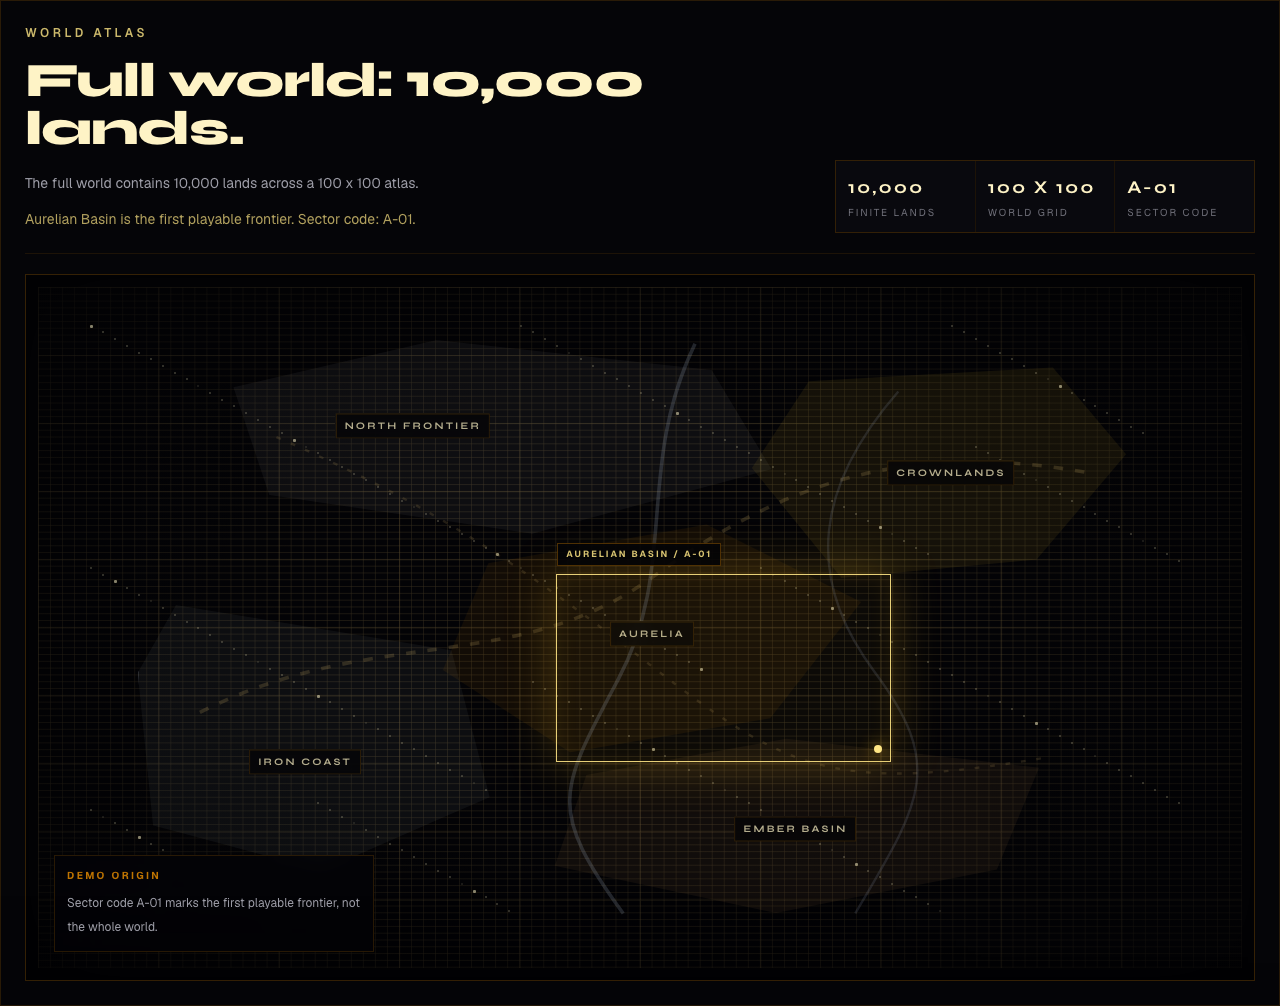
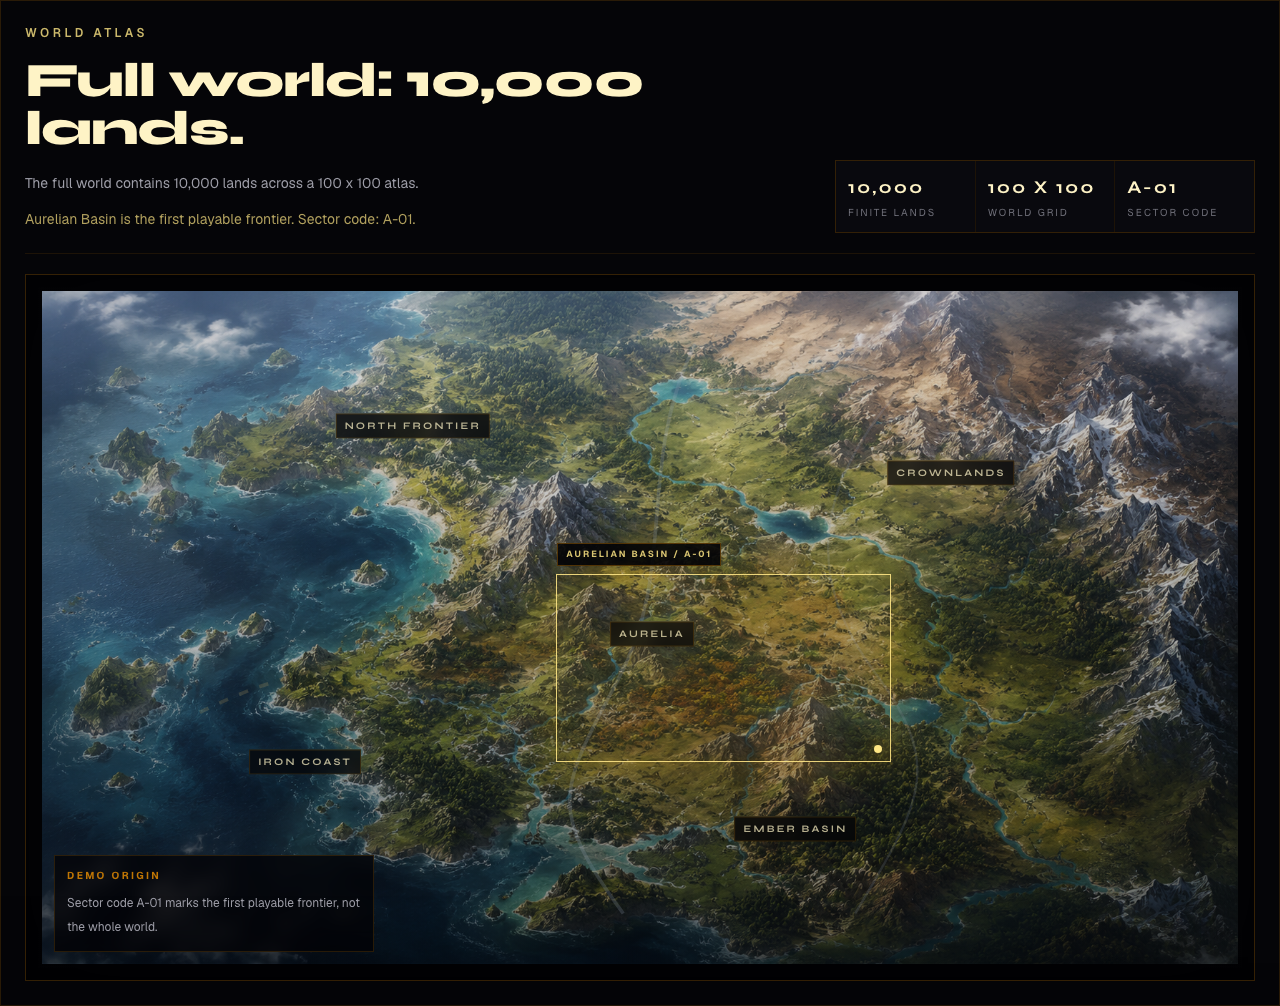
Manually prioritize asset-backed world map

diff --git a/app/world/page.tsx b/app/world/page.tsx
@@ -579,18 +579,24 @@ export default function WorldPage() {
           <div className="relative overflow-hidden border border-amber-500/20 bg-[#030306] p-3 shadow-[inset_0_0_90px_rgba(0,0,0,0.72)] sm:p-4">
             <div
               aria-hidden
-              className="absolute inset-3 opacity-[0.26] [background-image:linear-gradient(rgba(201,169,98,0.5)_1px,transparent_1px),linear-gradient(90deg,rgba(201,169,98,0.5)_1px,transparent_1px)] [background-size:1%_1%]"
+              className="absolute inset-3 hidden opacity-[0.26] [background-image:linear-gradient(rgba(201,169,98,0.5)_1px,transparent_1px),linear-gradient(90deg,rgba(201,169,98,0.5)_1px,transparent_1px)] [background-size:1%_1%]"
             />
             <div
               aria-hidden
-              className="absolute inset-3 opacity-[0.18] [background-image:linear-gradient(rgba(201,169,98,0.75)_1px,transparent_1px),linear-gradient(90deg,rgba(201,169,98,0.75)_1px,transparent_1px)] [background-size:10%_10%]"
+              className="absolute inset-3 hidden opacity-[0.18] [background-image:linear-gradient(rgba(201,169,98,0.75)_1px,transparent_1px),linear-gradient(90deg,rgba(201,169,98,0.75)_1px,transparent_1px)] [background-size:10%_10%]"
             />
             <div
               aria-hidden
               className="absolute inset-3 bg-[radial-gradient(ellipse_at_center,transparent_38%,rgba(2,2,4,0.78)_100%)]"
             />
-            <div className="relative aspect-[16/9] min-h-[260px] overflow-hidden sm:min-h-[420px] lg:min-h-[560px]">
-              {ATLAS_REGIONS.map((region) => (
+            <div
+                className="relative aspect-[16/9] min-h-[260px] overflow-hidden bg-cover bg-center sm:min-h-[420px] lg:min-h-[560px]"
+                style={{
+                  backgroundImage:
+                    "linear-gradient(180deg, rgba(2,2,4,0.10), rgba(2,2,4,0.46)), url('/assets/world-map/aurelian-basin-v1.png')",
+                }}
+              >
+              {false && ATLAS_REGIONS.map((region) => (
                 <div
                   key={region.id}
                   className={`absolute border ${region.className}`}
@@ -598,7 +604,7 @@ export default function WorldPage() {
                 />
               ))}
 
-              {ATLAS_LAND_MARKS.map((mark) => (
+              {false && ATLAS_LAND_MARKS.map((mark) => (
                 <span
                   key={mark.id}
                   className="pointer-events-none absolute rounded-[1px] bg-amber-100/70 shadow-[0_0_8px_rgba(251,191,36,0.18)]"
@@ -722,7 +728,13 @@ export default function WorldPage() {
               </div>
 
               <div className="mt-5 overflow-x-auto pb-2">
-                <div className="world-sector-canvas relative min-w-[680px] overflow-hidden border border-amber-500/25 p-3 shadow-[0_24px_80px_rgba(0,0,0,0.45),inset_0_0_90px_rgba(0,0,0,0.68)]">
+                <div
+                    className="world-sector-canvas relative min-w-[680px] overflow-hidden border border-amber-500/25 bg-cover bg-center p-3 shadow-[0_24px_80px_rgba(0,0,0,0.45),inset_0_0_90px_rgba(0,0,0,0.68)]"
+                    style={{
+                      backgroundImage:
+                        "linear-gradient(180deg, rgba(2,2,4,0.08), rgba(2,2,4,0.42)), url('/assets/world-map/aurelian-basin-v1.png')",
+                    }}
+                  >
                   <div aria-hidden className="world-sector-noise pointer-events-none absolute inset-0 z-[1]" />
                   <div
                     aria-hidden
@@ -752,7 +764,7 @@ export default function WorldPage() {
                     aria-hidden
                     className="pointer-events-none absolute inset-3 z-[4] bg-[radial-gradient(ellipse_at_52%_48%,rgba(201,169,98,0.12),transparent_58%)]"
                   />
-                  {TERRAIN_MASSES.map((mass) => (
+                  {false && TERRAIN_MASSES.map((mass) => (
                     <div
                       key={mass.id}
                       aria-hidden
@@ -760,7 +772,7 @@ export default function WorldPage() {
                       style={{ clipPath: mass.clipPath }}
                     />
                   ))}
-                  {SECTOR_REGION_ZONES.map((zone) => (
+                  {false && SECTOR_REGION_ZONES.map((zone) => (
                     <div
                       key={zone.id}
                       aria-hidden
@@ -830,7 +842,7 @@ export default function WorldPage() {
                   </svg>
                   <div
                     aria-hidden
-                    className="pointer-events-none absolute inset-3 z-[9] opacity-[0.14] [background-image:linear-gradient(rgba(201,169,98,0.55)_1px,transparent_1px),linear-gradient(90deg,rgba(201,169,98,0.55)_1px,transparent_1px)] [background-size:calc(100%/18)_calc(100%/12)]"
+                    className="pointer-events-none absolute inset-3 z-[9] opacity-[0.045] [background-image:linear-gradient(rgba(201,169,98,0.55)_1px,transparent_1px),linear-gradient(90deg,rgba(201,169,98,0.55)_1px,transparent_1px)] [background-size:calc(100%/18)_calc(100%/12)]"
                   />
                   <div
                     aria-hidden
@@ -845,7 +857,7 @@ export default function WorldPage() {
                       {label.name}
                     </span>
                   ))}
-                  <div className="relative z-[12] grid grid-cols-[repeat(18,minmax(0,1fr))] gap-px bg-amber-500/[0.035] p-px">
+                  <div className="relative z-[12] grid grid-cols-[repeat(18,minmax(0,1fr))] gap-px bg-transparent p-px">
                     {tiles.map((tile) => {
                       const tileOwnedByYou = demoState.claimedLandId === tile.id && demoState.claimedLand;
                       const tileClaimed = tile.claimed || tileOwnedByYou;
@@ -858,7 +870,7 @@ export default function WorldPage() {
                           type="button"
                           onClick={() => selectTile(tile.id)}
                           aria-label={`${tile.landId}, ${tile.region}, ${toTerrainLabel(tile.terrain)}`}
-                          className={`relative aspect-square overflow-hidden border border-white/[0.025] ${TERRAIN_TILE_SURFACE[tile.terrain]} transition-[border-color,box-shadow,background-color] duration-200 before:pointer-events-none before:absolute before:inset-0 before:opacity-90 after:pointer-events-none after:absolute after:inset-0 after:bg-[radial-gradient(circle_at_35%_30%,rgba(255,255,255,0.04),transparent_42%)] ${TERRAIN_TINT[tile.terrain]} ${
+                          className={`relative aspect-square overflow-hidden border border-white/[0.018] bg-black/[0.025] transition-[border-color,box-shadow,background-color] duration-200 before:pointer-events-none before:absolute before:inset-0 before:opacity-90 after:pointer-events-none after:absolute after:inset-0 after:bg-[radial-gradient(circle_at_35%_30%,rgba(255,255,255,0.04),transparent_42%)] ${
                             tile.x === 0 || tile.x === GRID_WIDTH - 1 || tile.y === 0 || tile.y === GRID_HEIGHT - 1
                               ? "opacity-[0.72]"
                               : ""

diff --git a/public/qa/latest/report.html b/public/qa/latest/report.html
@@ -27,7 +27,7 @@
     <header>
       <p class="eyebrow">Pixel Nations QA Report</p>
       <h1>Pixel Nations QA Report</h1>
-      <p>Generated: <code>2026-06-16T16:29:52.902Z</code></p>
+      <p>Generated: <code>2026-06-17T05:56:28.959Z</code></p>
       <p>App source: <code>existing local app</code></p>
     </header>
 
